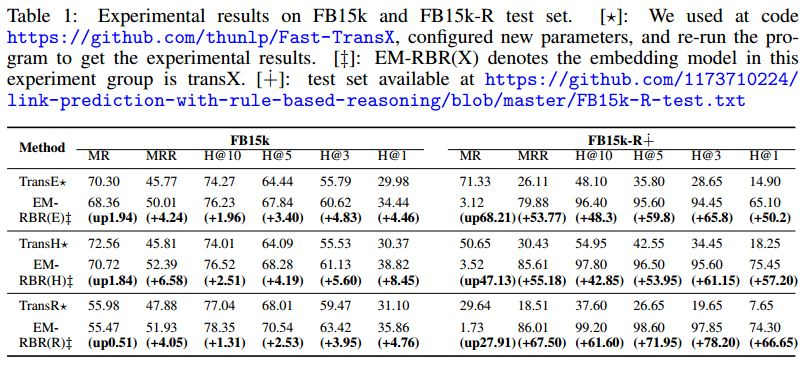
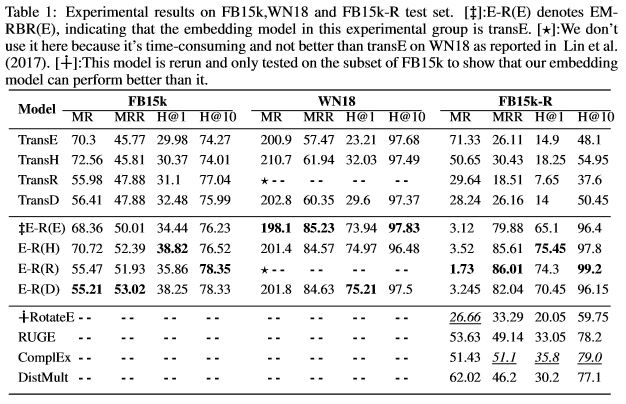
update

diff --git a/_posts/2020-02-01-EM-RBR a reinforced framework for knowledge graph completion from reasoning perspective.md b/_posts/2020-02-01-EM-RBR a reinforced framework for knowledge graph completion from reasoning perspective.md
@@ -35,16 +35,15 @@ The figure 2 and figure 3 used in paper are the simple illustration of measuring
 
 **Baseline**: To demonstrate the effectiveness of EM-RBR, we compare with a number of competitive baselines: TransE (Bordes et al., 2013), TransH (Wang et al., 2014), TransR (Lin et al., 2015), TransD (Ji et al., 2015), RUGE (Guo et al., 2017), ComplEx (Trouillon et al., 2016) and DistMult (Kadlec et al., 2017). All baselines are evaluated on FB15k-R. Besides, TransE, TransH, TransR and TransD are evaluated on FB15k and WN18 to prove that our framework is a real reinforced framework.
 
-EM-RBR integrated with TransE, TransH and TransR greatly improve the performance of the original methods on all metrics according to the results in Table 1. This implies that our reasoning-enhanced framework can efficiently help the knowledge graph embedding models to perform link prediction more accurately.
+Experimental Results are as shown in Table 1. When evaluating on FB15k and WN18, our model has improved all the metrics compared with the translation model in the baselines, especially MRR and Hits@1 on WN18. The higer Hits@n score indicates the greater possibilities to rank the the correct triplets in the front. These metrics paying attention on front ranks are the most important in real knowledge inference task. For example, **EM-RBR(D) improve Hits@1 on WN18 from 0.296} to 0.752 compared to transD**.
+
+As for FB15k-R, each triplet in this data set can match enough rules so that they can be optimized under EM-RBR. On this data set, the best MR is **1.73** from EM-RBR(R) which is an improvement of **24.93** relative to RotateE. The best MRR is **0.86** from EM-RBR(R) which is an improvement of **0.35** relative to ComplEx. The best Hits@1 is **0.7545** from EM-RBR(H) which is an improvement of **39.65** relative to ComplEx. The best Hits@10 is **0.992** from EM-RBR(R) which is an improvement of **20.2** relative to ComplEx.
 
 <center>
 <img src="{{site.baseurl}}/assets/img/expTable1.JPG" width="55%" height="55%" /><br>
 </center>
-Our rule-enhanced method **significantly reaches some promising absolute performance scores on Hits@1, Hits@3, and Hits@5 metrics**, e.g., in FB15k,  EM-RBR(H)'s improvements of $38.82 - 30.37 = 8.45$ in Hits@1, $61.13 - 55.53 = 5.60$ in Hits@3 and also obtains $68.28 - 64.09 = 4.19$ absolute improvement in Hits@5. These metrics paying attention on front ranks are the most important in real knowledge inference task. The higer Hits@n score indicates the greater possibilities to rank the the correct triplets in the front.
 
-**More impressively in FB15k-R, EM-RBR(E)'s, EM-RBR(H)'s and EM-RBR(R)'s advance in Hits@1 is $65.1 - 14.9 = 50.2$, $75.45 - 18.25 = 57.20$ and $74.30 - 7.65 = 66.65$ respectively.** Thus, EM-RBR can make knowledge graph embedding method capable of being used in the real and large scale knowledge inference tasks.
-
-The figure 4 and figure 5 used in paper are to show the **hyper-parameter analysis**. And Table 2 is a **case study to explore how much EM-RBR can optimize on each triplet on earth**. Both more elaborate description can be found in our paper.
+The figure 4 and figure 5 used in paper are to show the **hyper-parameter analysis**. And Table 2 is an **optimized case analysis**.
 <center>
 <img src="{{site.baseurl}}/assets/img/varAna.JPG" width="55%" height="55%" /><br>
 </center>
